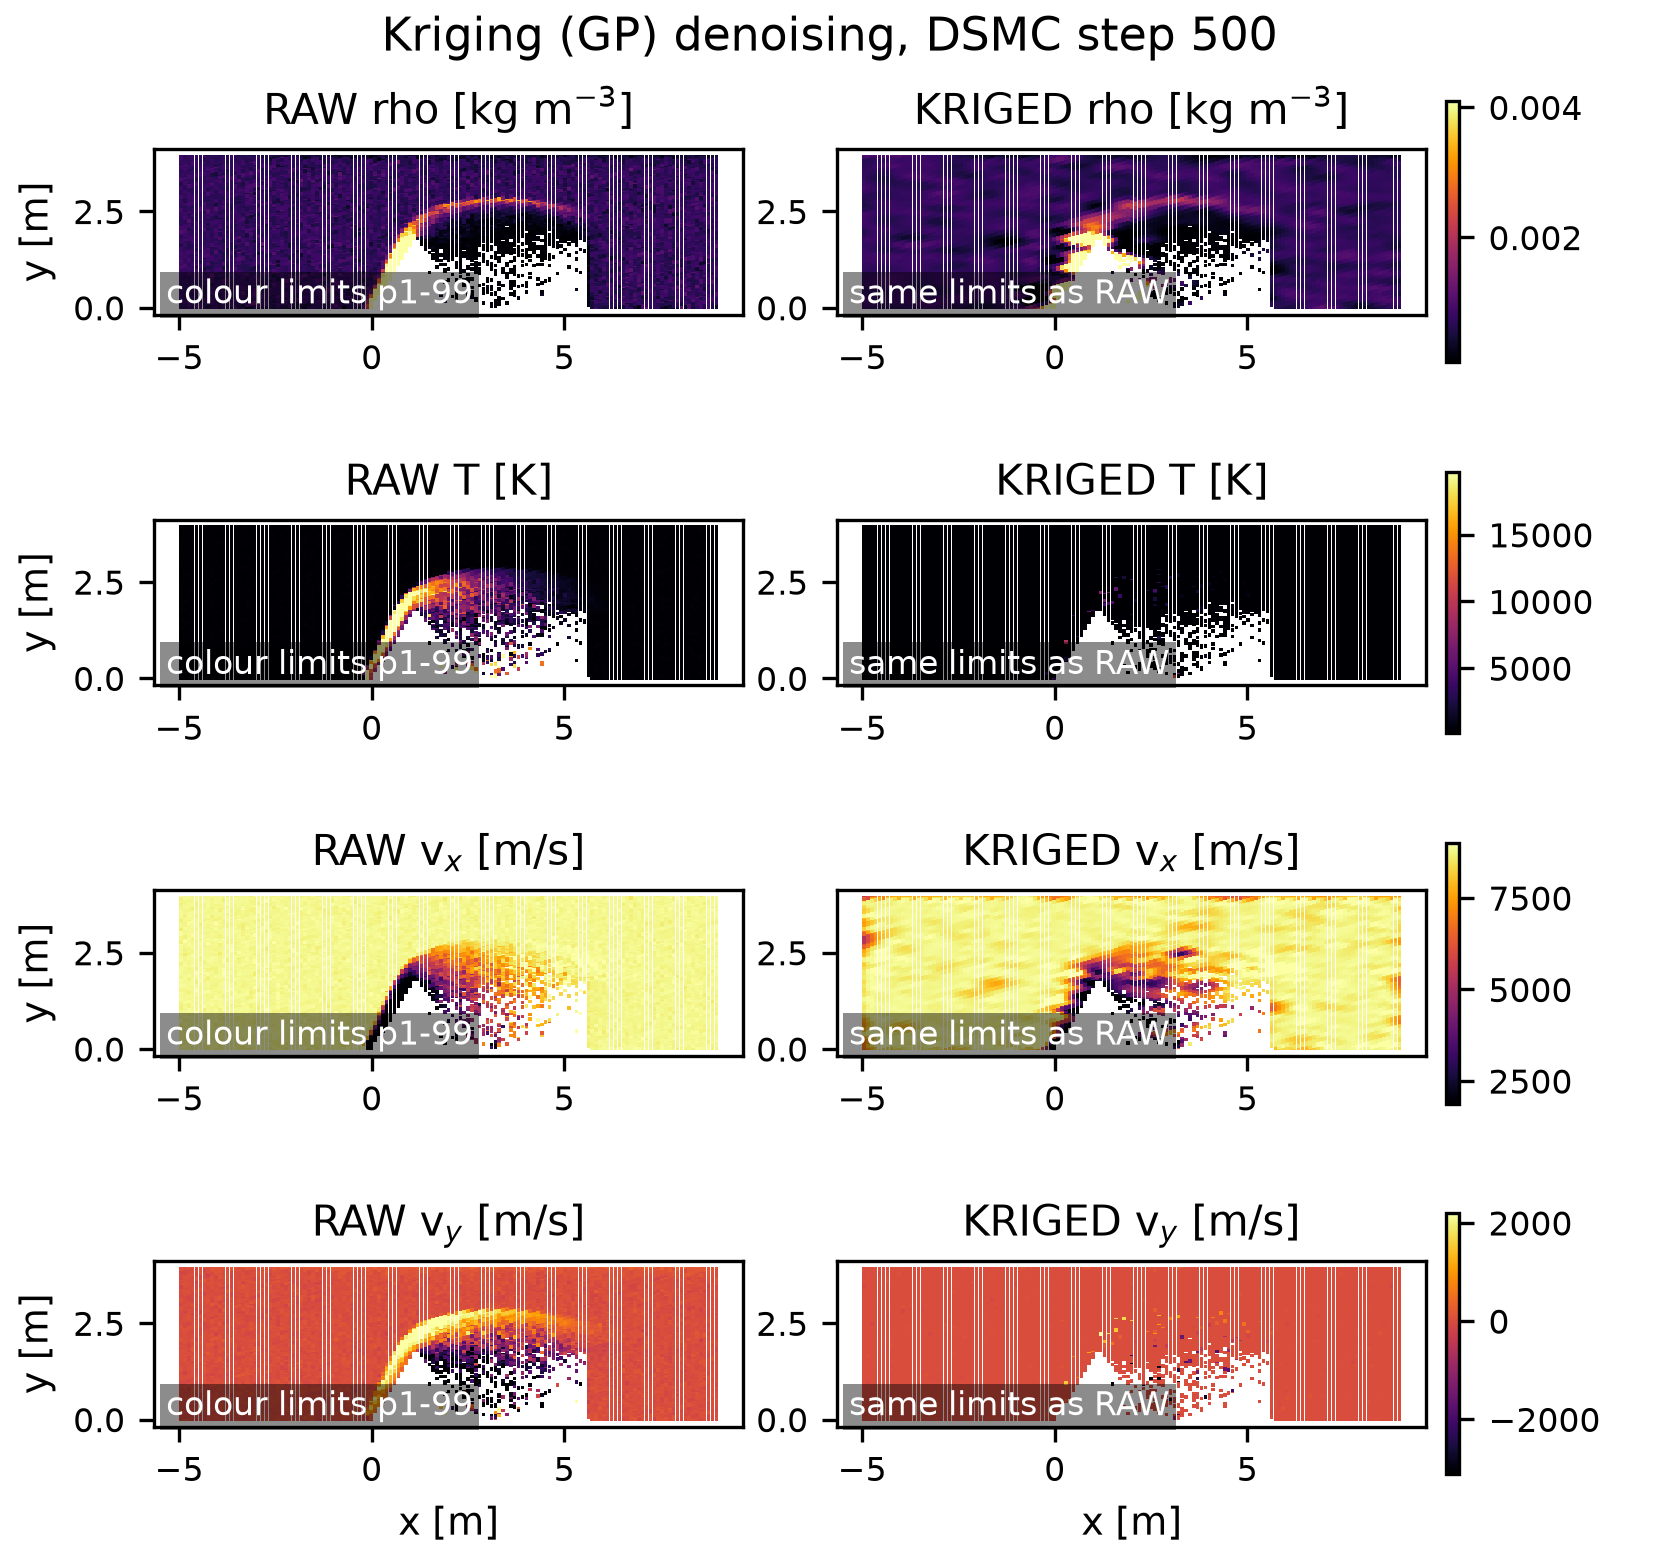
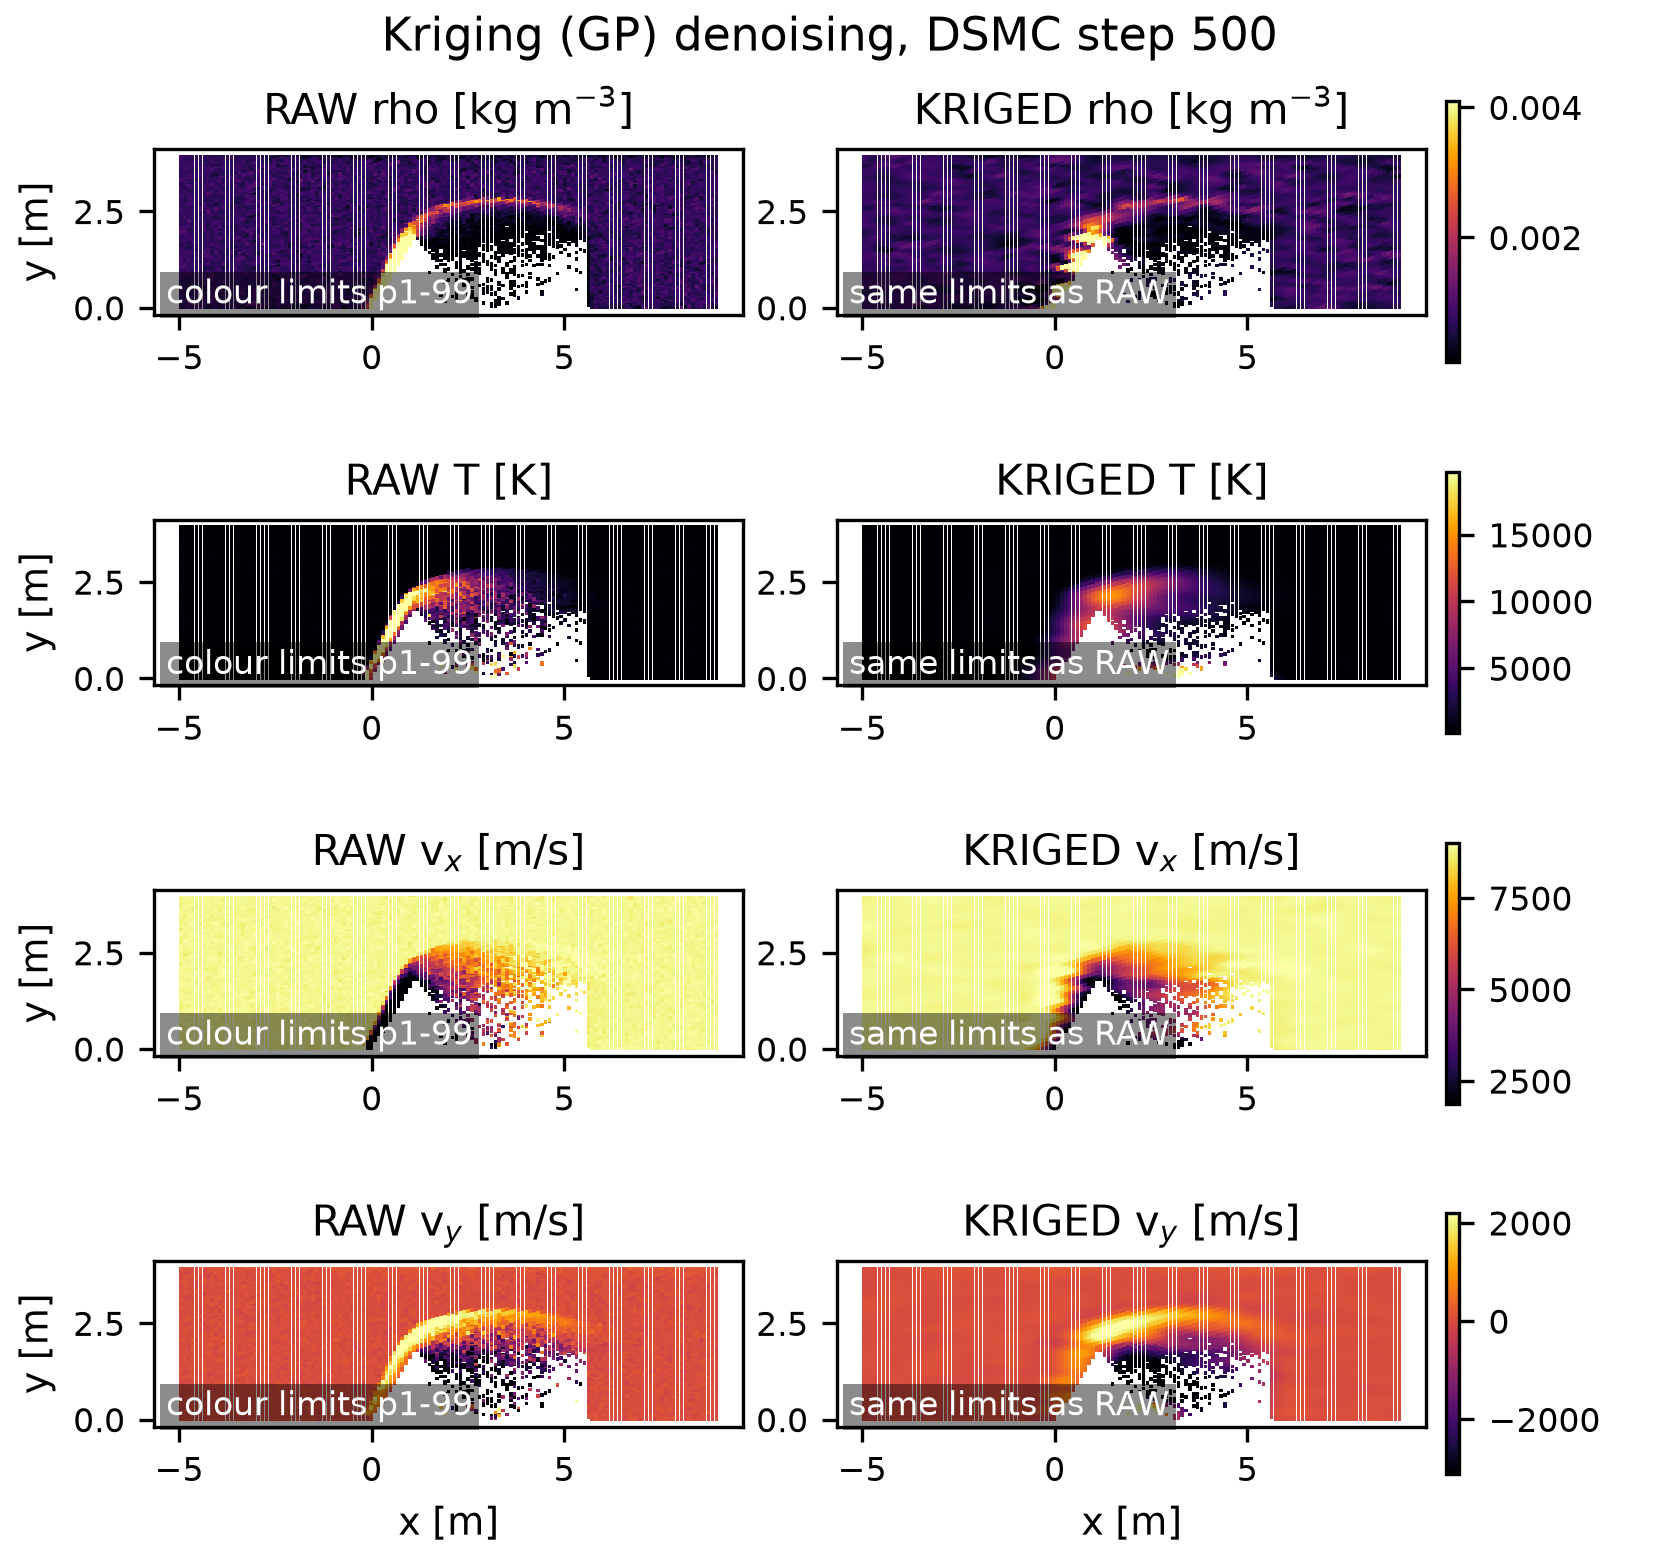
fix(kriging): standardize GP target so field structure survives denoising (A16)

diff --git a/stellarorion_program_proc/src/python/kriging_denoise.py b/stellarorion_program_proc/src/python/kriging_denoise.py
@@ -265,18 +265,39 @@ def denoise_grid(raw_data: "np.ndarray", n_restarts: int = 5, random_state: int 
         if np.std(y_train) < 1e-15:
             continue
 
-        # Build kernel with appropriate noise bound
-        # Heuristic: noise bound = 0.5 × std(y) (DSMC noise is typically 3-10%)
-        noise_ub = max(0.5 * np.std(y_train), 1e-10)
+        # Build kernel with appropriate noise bound. The bound lives in the
+        # standardised target space, because the regressor below now normalises
+        # y: 0.5 of the unit variance is a generous search CEILING, not a claim
+        # that the DSMC noise is 50 percent of the signal. The earlier
+        # field-unit heuristic (0.5 x std(y)) put the ceiling four orders
+        # above the noise for temperature, which let the optimizer overfit
+        # the WhiteKernel instead of the shock structure.
+        # [Citation: Rasmussen & Williams (2006), §9.1 target standardization]
+        noise_ub = 0.5
         kernel = _build_kernel(noise_upper_bound=noise_ub)
 
         # Fit GP regressor
         # [Citation: Lophaven et al. (2002), DACE §3.2]
+        # normalize_y=True fixes a measured scale degeneracy: the kernel
+        # amplitude bounds (1e-3, 1e3) are ABSOLUTE, so a field whose variance
+        # exceeds the ceiling has no representable signal amplitude. Temperature
+        # (std ~3529 K, variance ~1.2e7 K^2) forced k1__k1__constant_value onto
+        # its upper bound and collapsed k1__k2__length_scale onto the 0.001 m
+        # lower bound: a delta kernel that reverts every unsampled cell to the
+        # mean. Measured std_kriged/std_raw before this change: T 0.093,
+        # vy 0.196, rho 0.689, vx 1.031. Standardising the target puts the signal
+        # variance near 1 inside the bounds so the physical length scale is
+        # reachable; sklearn carries the scaling through fit, predict and
+        # return_std, so this routine still writes denoised values in field
+        # units. [Citation: scikit-learn GaussianProcessRegressor normalize_y
+        # parameter docs, https://scikit-learn.org/stable/modules/generated/
+        # sklearn.gaussian_process.GaussianProcessRegressor.html]
         gp = GaussianProcessRegressor(
             kernel=kernel,
             n_restarts_optimizer=n_restarts,
             random_state=random_state,
             alpha=1e-10,  # numerical stability
+            normalize_y=True,
         )
 
         try:

diff --git a/Lost+Found/ProgressReport/CurrentThesisFinalReport/PlotGeneratorFixNotes.md b/Lost+Found/ProgressReport/CurrentThesisFinalReport/PlotGeneratorFixNotes.md
@@ -413,6 +413,27 @@ intermediate build (171 pages, 0 errors) committed alongside.
 - **LOW** — "KRIGED vx" shows blotchy orange mottling in the freestream not
   present in RAW. *Fix:* same investigation as above.
 
+*Disposition (2026-10-13):* INVESTIGATED FIRST as the note required — the defect was
+NOT in the plot. `render_kriging_panel.py` honestly renders the real output of
+`stellarorion_program_proc/src/python/kriging_denoise.py::denoise_grid` with shared
+colour limits (mechanism verified in code and figure). The measured std ratios
+std_kriged/std_raw on the shipped pipeline output were rho 0.689, T 0.093,
+vx 1.031, vy 0.196, with sklearn ConvergenceWarnings showing k1__k1__constant_value
+pinned at its 1e3 upper bound, k1__k2__length_scale collapsed to the 0.001 m lower
+bound and k2__noise_level pinned at its upper bound: the KG regressor was fit in
+RAW field units, so for T (std ~3529 K, variance ~1.24e7) the signal amplitude had
+no representable value inside the kernel bounds and the optimizer fell back to a
+delta kernel that mean-reverts every unsampled cell. FIXED in the algorithm source
+(`GaussianProcessRegressor(..., normalize_y=True)` plus a dimensionless
+`noise_ub = 0.5` search ceiling in the standardized target space; Rasmussen & Williams
+(2006) §9.1 + sklearn GPR docs cited in code). Ratios after the fix: rho 0.596,
+T 0.717, vx 0.896, vy 0.975 — the shock structure and boundary-layer gradients
+survive noise removal, which is what the Ch3 figure paragraph already promises.
+Fresh render (T and vy rows now structurally intact, shared colour keys kept,
+no fit warnings) installed as figures/kriging_denoise.png, 372114 B, shasum256
+4aaee7587ab62917. The companion kriging_noise_reduction figure is not included by
+the thesis, so it was not installed.
+
 ### A17. `figures/make_lit_review_map.py` → `literature_review_map.png`
 - **LOW** — The "Partially covered" legend swatch is not used by any matrix cell.
   *Fix:* drop the unused legend entry.
